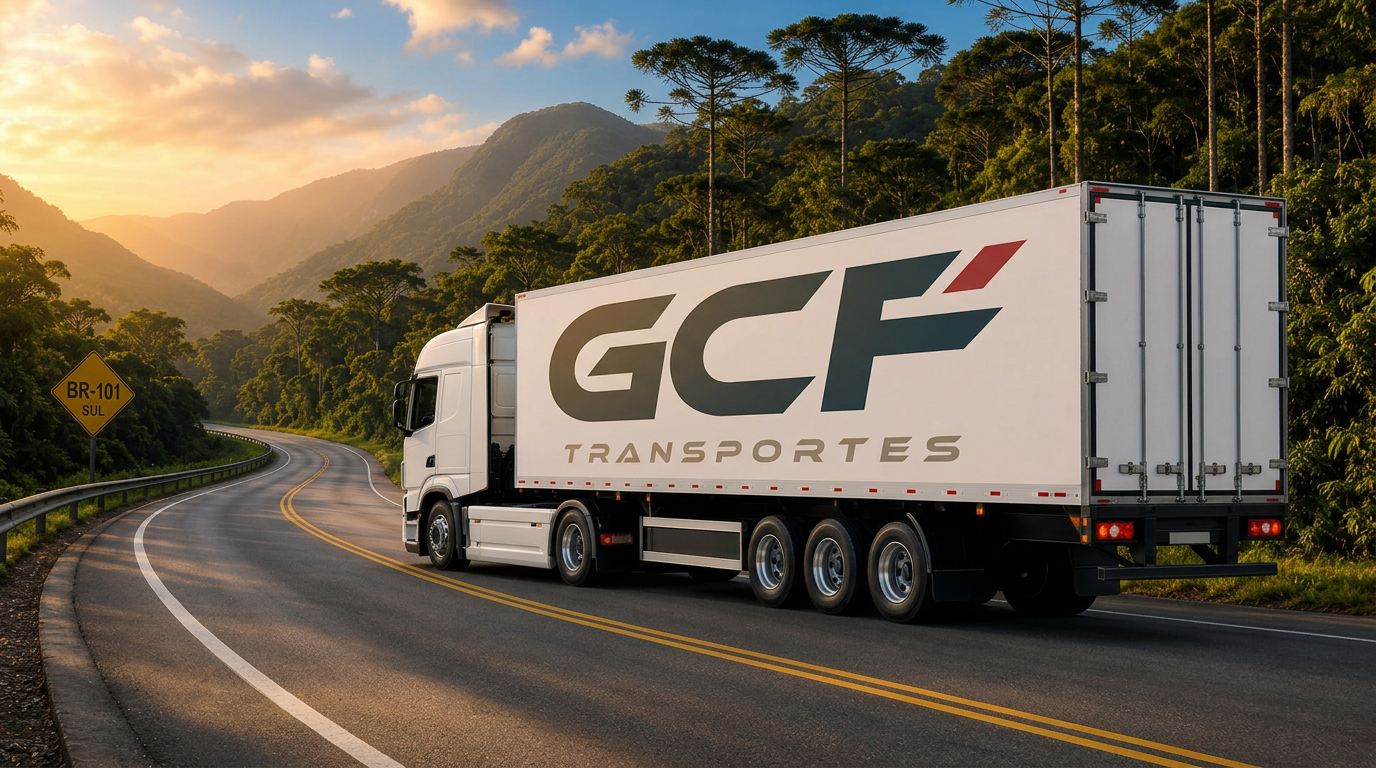
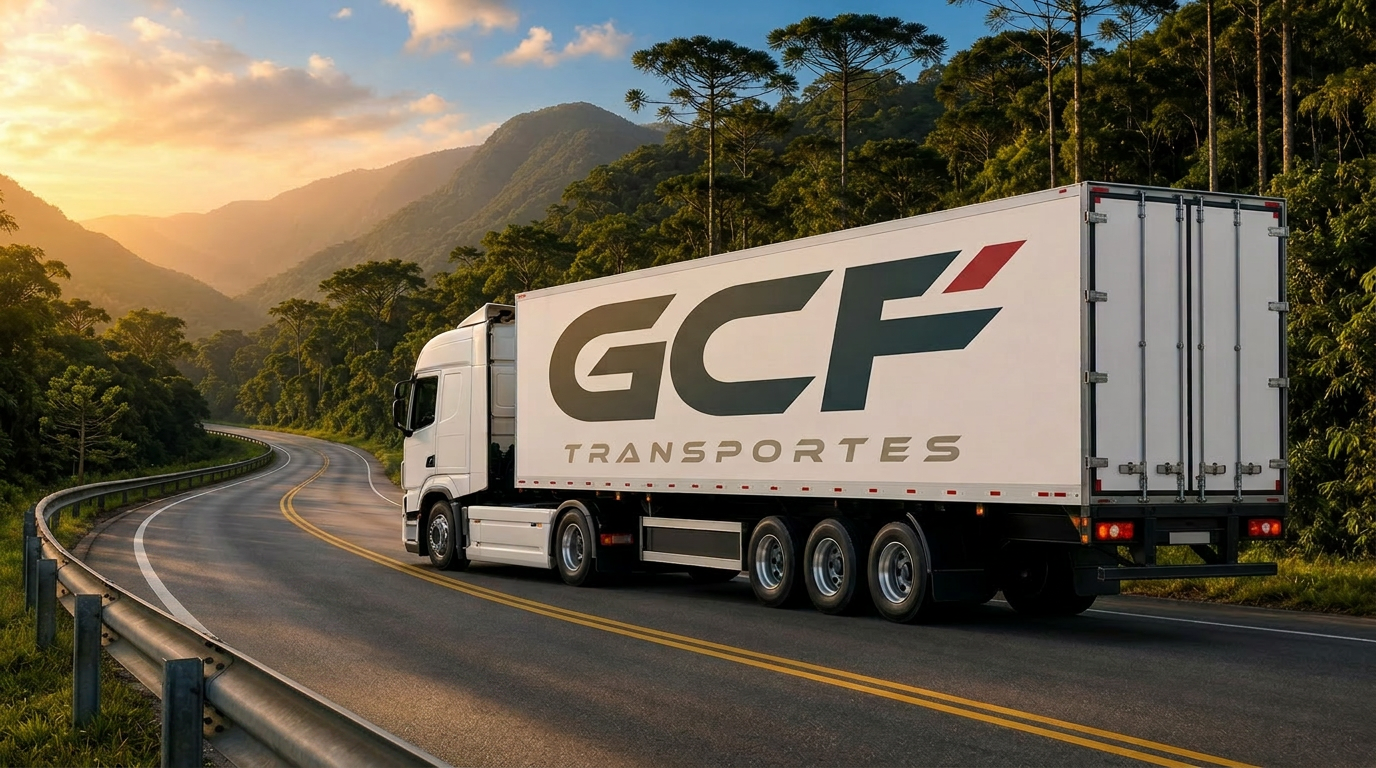
Changes

diff --git a/.lovable/plan.md b/.lovable/plan.md
@@ -1,33 +1,26 @@
-## Plano: Vídeo do hero com cara de Brasil + logo GCF + caminhão saindo da pista na curva
+## Plano: ajustes finais no vídeo do hero
 
-### Problemas reportados
-1. Cenário ainda não parece brasileiro o suficiente.
-2. O caminhão precisa ter a logo da GCF na lateral do baú.
-3. Na curva o caminhão "come a pista" (cruza a faixa) — precisa ficar dentro da própria mão.
+### Problemas restantes
+1. **Placa "BR-101"** no acostamento não faz sentido no contexto.
+2. **Final do vídeo**: caminhão sai da pista e bate.
 
-### Estratégia em 2 etapas
+### Solução em 2 passos
 
-**Etapa 1 — Gerar o frame inicial (imagem) com tudo certo**
-Em vez de gerar vídeo do zero (a IA de vídeo é difícil de controlar para detalhes), vamos:
+**Passo 1 — Editar o frame base (`src/assets/hero-frame.jpg`)**
+- Usar `imagegen edit_image` para **remover a placa BR-101** do acostamento, substituindo por vegetação/defensa metálica limpa (ou uma placa genérica de curva/atenção, sem texto identificável).
+- Manter todo o resto: caminhão branco com logo GCF, faixa amarela dupla, mata atlântica, hora dourada.
 
-1. Gerar uma **imagem base** muito brasileira via `imagegen` (premium):
-   - Prompt: caminhão semi-reboque branco moderno em rodovia brasileira reconhecível (BR-116/Régis Bittencourt ou Serra do Mar), placa de sinalização brasileira amarela com escrita "BR-101" ao lado da pista, vegetação típica de mata atlântica, montanhas com araucárias/serra brasileira ao fundo, faixa amarela contínua dupla no meio da pista (padrão DENATRAN brasileiro), acostamento com defensa metálica, hora dourada do fim de tarde tropical, vista 3/4 traseira-lateral mostrando a lateral do baú bem visível e plana, sem placa de identificação, sem motorista visível.
-
-2. Aplicar a **logo da GCF** na lateral do baú via `imagegen edit_image` (mesclando a logo `public/lovable-uploads/bd01e038-b63c-4a52-b5da-67f949721274.png` na lateral do trailer).
-
-3. Usar essa imagem como `starting_frame` do `videogen`, com prompt focado em:
-   - "truck drives smoothly through the curve staying entirely within its own lane, never crossing the center line, camera follows from behind-side, road markings clearly painted, Brazilian landscape".
-   - Câmera fixa, 10s, 1080p.
-
-**Etapa 2 — Validar visualmente**
-- Inspecionar o frame gerado e o vídeo final antes de entregar.
-- Se a logo ficar deformada ou o caminhão sair da pista de novo, regenerar a imagem base com instruções mais explícitas e tentar novamente.
+**Passo 2 — Regenerar `src/assets/hero-video.mp4`**
+- Usar o frame editado como `starting_frame`.
+- Prompt reforçado para estabilidade até o último frame:
+  - "truck drives smoothly and stays perfectly centered in its own lane for the entire 10 seconds, never drifting, never crashing, never leaving the road, gentle curve, steady cinematic camera following from behind-side, loop-friendly ending".
+- `camera_fixed: true`, 10s, 1080p.
+- Validar visualmente o último segundo antes de entregar; se ainda sair da pista, regenerar com prompt ainda mais conservador (curva mais suave / reta).
 
 ### Arquivos
 | Ação | Arquivo |
 |------|---------|
-| Gerar | `src/assets/hero-frame.jpg` (imagem base brasileira) |
-| Editar | `src/assets/hero-frame.jpg` (aplicar logo GCF na lateral do baú) |
-| Regenerar | `src/assets/hero-video.mp4` (a partir do frame) |
+| Editar | `src/assets/hero-frame.jpg` (remover placa BR-101) |
+| Regenerar | `src/assets/hero-video.mp4` |
 
-Sem mudanças no código React — só troca de assets.
+Sem mudanças no código React.
